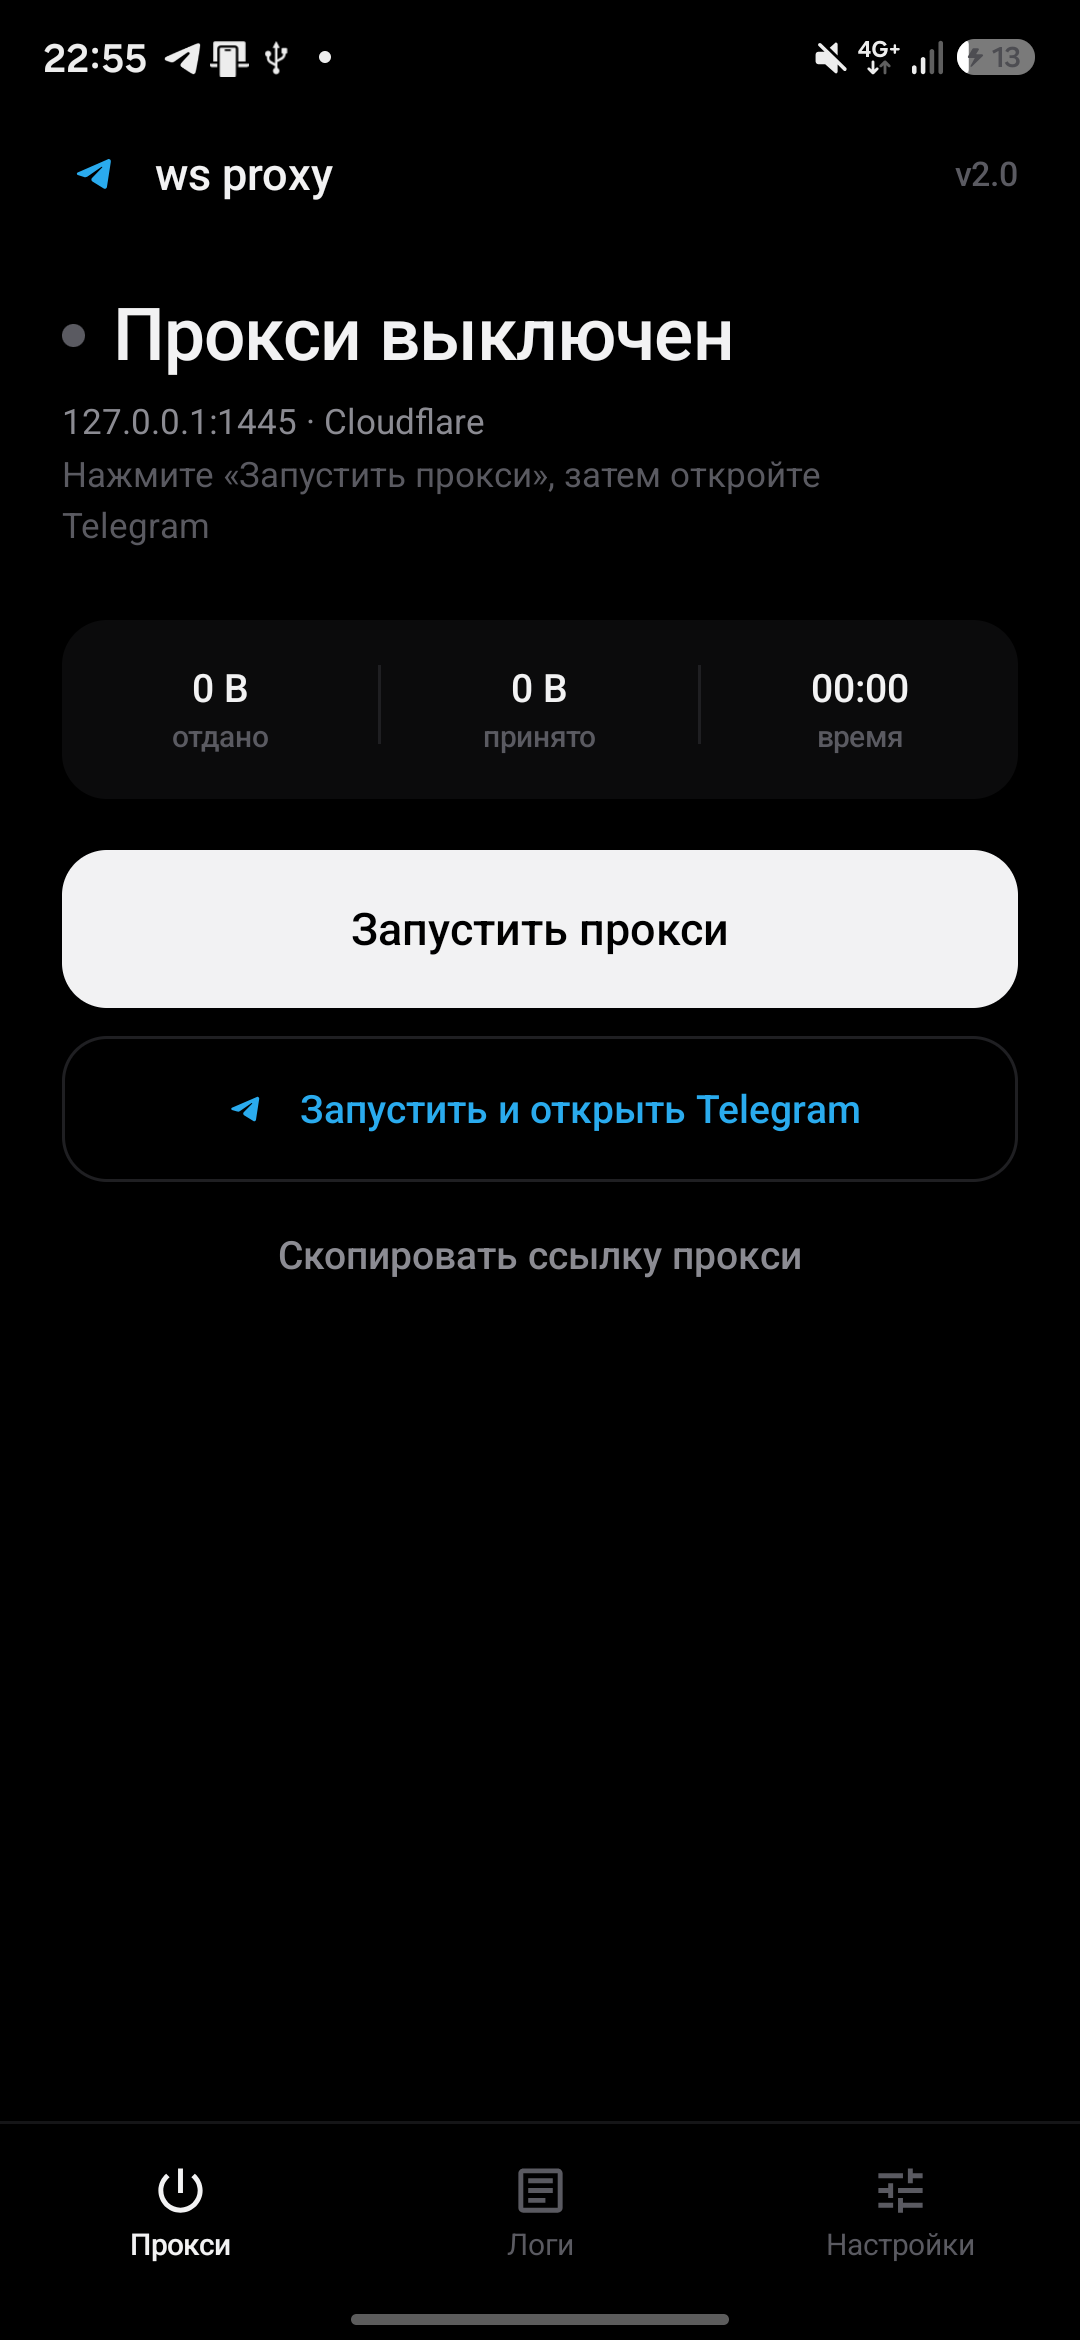
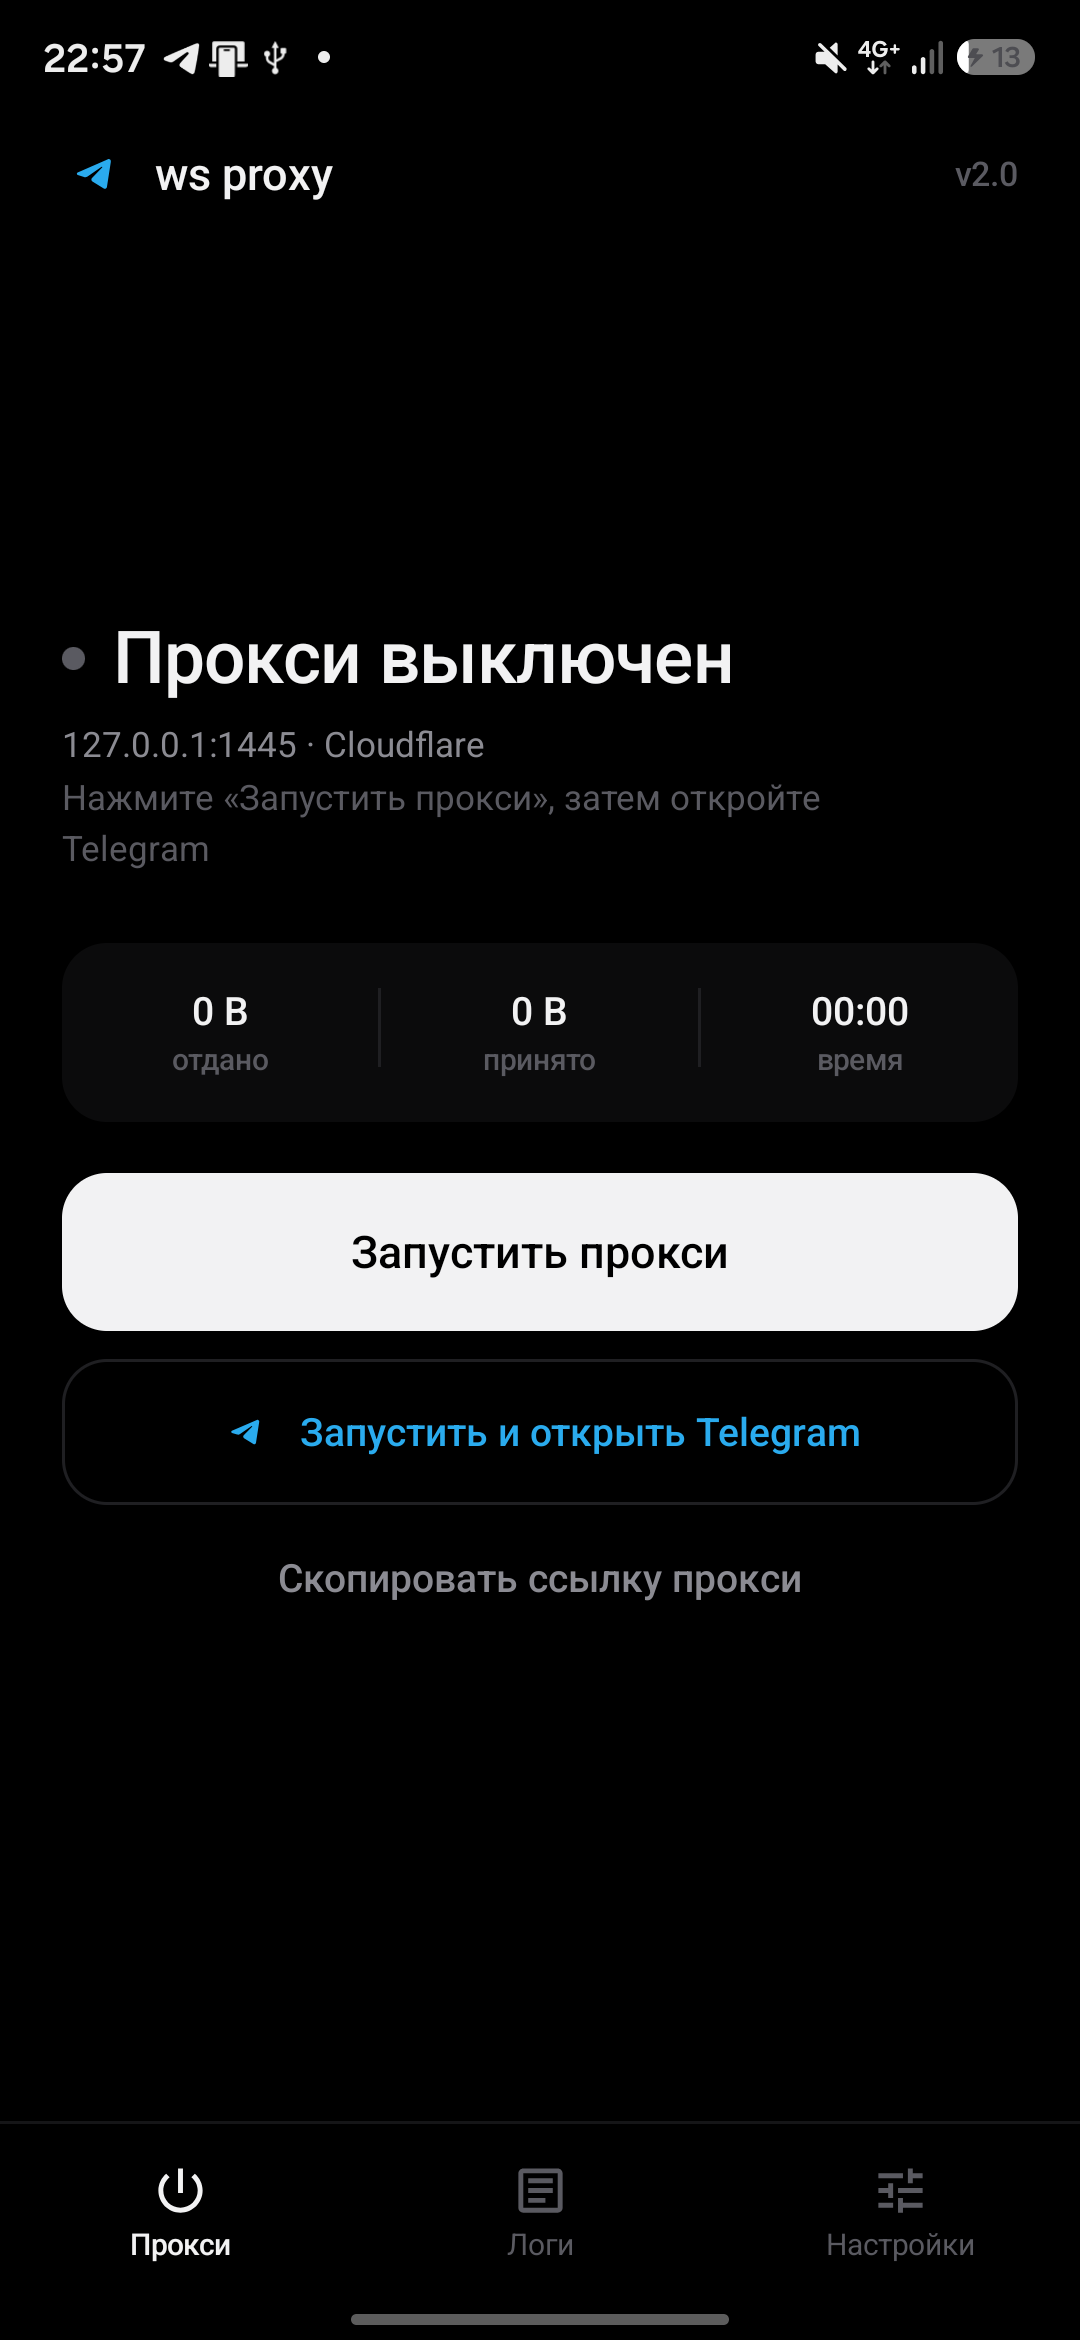
Center proxy controls and simplify navigation
- move the proxy status, stats and actions to the middle of the screen
- keep header pinned at the top
- responsive scroll if the screen is too small
- refresh screenshots

diff --git a/app/src/main/java/com/amurcanov/tgwsproxy/ui/ConnectionTab.kt b/app/src/main/java/com/amurcanov/tgwsproxy/ui/ConnectionTab.kt
@@ -9,12 +9,14 @@ import androidx.compose.animation.core.tween
 import androidx.compose.foundation.background
 import androidx.compose.foundation.layout.Arrangement
 import androidx.compose.foundation.layout.Box
+import androidx.compose.foundation.layout.BoxWithConstraints
 import androidx.compose.foundation.layout.Column
 import androidx.compose.foundation.layout.Row
 import androidx.compose.foundation.layout.Spacer
 import androidx.compose.foundation.layout.fillMaxSize
 import androidx.compose.foundation.layout.fillMaxWidth
 import androidx.compose.foundation.layout.height
+import androidx.compose.foundation.layout.heightIn
 import androidx.compose.foundation.layout.padding
 import androidx.compose.foundation.layout.size
 import androidx.compose.foundation.layout.width
@@ -178,7 +180,6 @@ fun HomeScreen(settingsStore: SettingsStore) {
     Column(
         modifier = Modifier
             .fillMaxSize()
-            .verticalScroll(rememberScrollState())
             .padding(horizontal = 22.dp)
     ) {
         Row(
@@ -207,9 +208,20 @@ fun HomeScreen(settingsStore: SettingsStore) {
             )
         }
 
-        Spacer(Modifier.height(30.dp))
-
-        Row(verticalAlignment = Alignment.CenterVertically) {
+        BoxWithConstraints(
+            modifier = Modifier
+                .weight(1f)
+                .fillMaxWidth()
+        ) {
+            Column(
+                modifier = Modifier
+                    .fillMaxWidth()
+                    .heightIn(min = maxHeight)
+                    .verticalScroll(rememberScrollState())
+                    .padding(vertical = 16.dp),
+                verticalArrangement = Arrangement.Center
+            ) {
+                Row(verticalAlignment = Alignment.CenterVertically) {
             Box(
                 modifier = Modifier
                     .size(8.dp)
@@ -379,6 +391,8 @@ fun HomeScreen(settingsStore: SettingsStore) {
         }
 
         Spacer(Modifier.height(24.dp))
+            }
+        }
     }
 }
 
